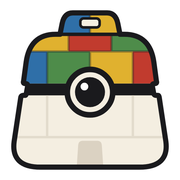
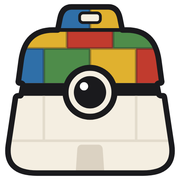
web: 898a01b

Changed region(s): [[0.0278, 0.0, 0.9722, 1.0], [0.4167, 0.7778, 0.5833, 0.8056]]

diff --git a/legal/esborrar-compte.html b/legal/esborrar-compte.html
@@ -5,8 +5,8 @@
 <meta name="viewport" content="width=device-width, initial-scale=1">
 <title>Esborrar el teu compte de Talaiot · Talaiot</title>
 <meta name="theme-color" content="#15131A">
-<link rel="icon" href="https://talaiottcg.com/img/favicon.png?v=2">
-<link rel="apple-touch-icon" href="https://talaiottcg.com/img/apple-touch-icon.png?v=2">
+<link rel="icon" href="https://talaiottcg.com/img/favicon.png?v=3">
+<link rel="apple-touch-icon" href="https://talaiottcg.com/img/apple-touch-icon.png?v=3">
 <link rel="preconnect" href="https://fonts.googleapis.com">
 <link rel="preconnect" href="https://fonts.gstatic.com" crossorigin>
 <link rel="stylesheet" href="https://fonts.googleapis.com/css2?family=Plus+Jakarta+Sans:wght@400;600;700;800&display=swap">

diff --git a/legal/borrar-cuenta.html b/legal/borrar-cuenta.html
@@ -5,8 +5,8 @@
 <meta name="viewport" content="width=device-width, initial-scale=1">
 <title>Borrar tu cuenta de Talaiot · Talaiot</title>
 <meta name="theme-color" content="#15131A">
-<link rel="icon" href="https://talaiottcg.com/img/favicon.png?v=2">
-<link rel="apple-touch-icon" href="https://talaiottcg.com/img/apple-touch-icon.png?v=2">
+<link rel="icon" href="https://talaiottcg.com/img/favicon.png?v=3">
+<link rel="apple-touch-icon" href="https://talaiottcg.com/img/apple-touch-icon.png?v=3">
 <link rel="preconnect" href="https://fonts.googleapis.com">
 <link rel="preconnect" href="https://fonts.gstatic.com" crossorigin>
 <link rel="stylesheet" href="https://fonts.googleapis.com/css2?family=Plus+Jakarta+Sans:wght@400;600;700;800&display=swap">

diff --git a/legal/delete-account.html b/legal/delete-account.html
@@ -5,8 +5,8 @@
 <meta name="viewport" content="width=device-width, initial-scale=1">
 <title>Delete your Talaiot account · Talaiot</title>
 <meta name="theme-color" content="#15131A">
-<link rel="icon" href="https://talaiottcg.com/img/favicon.png?v=2">
-<link rel="apple-touch-icon" href="https://talaiottcg.com/img/apple-touch-icon.png?v=2">
+<link rel="icon" href="https://talaiottcg.com/img/favicon.png?v=3">
+<link rel="apple-touch-icon" href="https://talaiottcg.com/img/apple-touch-icon.png?v=3">
 <link rel="preconnect" href="https://fonts.googleapis.com">
 <link rel="preconnect" href="https://fonts.gstatic.com" crossorigin>
 <link rel="stylesheet" href="https://fonts.googleapis.com/css2?family=Plus+Jakarta+Sans:wght@400;600;700;800&display=swap">

diff --git a/legal/privacidad.html b/legal/privacidad.html
@@ -5,8 +5,8 @@
 <meta name="viewport" content="width=device-width, initial-scale=1">
 <title>Política de privacidad · Talaiot</title>
 <meta name="theme-color" content="#15131A">
-<link rel="icon" href="https://talaiottcg.com/img/favicon.png?v=2">
-<link rel="apple-touch-icon" href="https://talaiottcg.com/img/apple-touch-icon.png?v=2">
+<link rel="icon" href="https://talaiottcg.com/img/favicon.png?v=3">
+<link rel="apple-touch-icon" href="https://talaiottcg.com/img/apple-touch-icon.png?v=3">
 <link rel="preconnect" href="https://fonts.googleapis.com">
 <link rel="preconnect" href="https://fonts.gstatic.com" crossorigin>
 <link rel="stylesheet" href="https://fonts.googleapis.com/css2?family=Plus+Jakarta+Sans:wght@400;600;700;800&display=swap">

diff --git a/legal/privacitat.html b/legal/privacitat.html
@@ -5,8 +5,8 @@
 <meta name="viewport" content="width=device-width, initial-scale=1">
 <title>Política de privacitat · Talaiot</title>
 <meta name="theme-color" content="#15131A">
-<link rel="icon" href="https://talaiottcg.com/img/favicon.png?v=2">
-<link rel="apple-touch-icon" href="https://talaiottcg.com/img/apple-touch-icon.png?v=2">
+<link rel="icon" href="https://talaiottcg.com/img/favicon.png?v=3">
+<link rel="apple-touch-icon" href="https://talaiottcg.com/img/apple-touch-icon.png?v=3">
 <link rel="preconnect" href="https://fonts.googleapis.com">
 <link rel="preconnect" href="https://fonts.gstatic.com" crossorigin>
 <link rel="stylesheet" href="https://fonts.googleapis.com/css2?family=Plus+Jakarta+Sans:wght@400;600;700;800&display=swap">

diff --git a/legal/index.html b/legal/index.html
@@ -5,8 +5,8 @@
 <meta name="viewport" content="width=device-width, initial-scale=1">
 <title>Talaiot — Legal · Talaiot</title>
 <meta name="theme-color" content="#15131A">
-<link rel="icon" href="https://talaiottcg.com/img/favicon.png?v=2">
-<link rel="apple-touch-icon" href="https://talaiottcg.com/img/apple-touch-icon.png?v=2">
+<link rel="icon" href="https://talaiottcg.com/img/favicon.png?v=3">
+<link rel="apple-touch-icon" href="https://talaiottcg.com/img/apple-touch-icon.png?v=3">
 <link rel="preconnect" href="https://fonts.googleapis.com">
 <link rel="preconnect" href="https://fonts.gstatic.com" crossorigin>
 <link rel="stylesheet" href="https://fonts.googleapis.com/css2?family=Plus+Jakarta+Sans:wght@400;600;700;800&display=swap">

diff --git a/legal/terminos.html b/legal/terminos.html
@@ -5,8 +5,8 @@
 <meta name="viewport" content="width=device-width, initial-scale=1">
 <title>Términos de uso · Talaiot</title>
 <meta name="theme-color" content="#15131A">
-<link rel="icon" href="https://talaiottcg.com/img/favicon.png?v=2">
-<link rel="apple-touch-icon" href="https://talaiottcg.com/img/apple-touch-icon.png?v=2">
+<link rel="icon" href="https://talaiottcg.com/img/favicon.png?v=3">
+<link rel="apple-touch-icon" href="https://talaiottcg.com/img/apple-touch-icon.png?v=3">
 <link rel="preconnect" href="https://fonts.googleapis.com">
 <link rel="preconnect" href="https://fonts.gstatic.com" crossorigin>
 <link rel="stylesheet" href="https://fonts.googleapis.com/css2?family=Plus+Jakarta+Sans:wght@400;600;700;800&display=swap">

diff --git a/legal/privacy.html b/legal/privacy.html
@@ -5,8 +5,8 @@
 <meta name="viewport" content="width=device-width, initial-scale=1">
 <title>Privacy Policy · Talaiot</title>
 <meta name="theme-color" content="#15131A">
-<link rel="icon" href="https://talaiottcg.com/img/favicon.png?v=2">
-<link rel="apple-touch-icon" href="https://talaiottcg.com/img/apple-touch-icon.png?v=2">
+<link rel="icon" href="https://talaiottcg.com/img/favicon.png?v=3">
+<link rel="apple-touch-icon" href="https://talaiottcg.com/img/apple-touch-icon.png?v=3">
 <link rel="preconnect" href="https://fonts.googleapis.com">
 <link rel="preconnect" href="https://fonts.gstatic.com" crossorigin>
 <link rel="stylesheet" href="https://fonts.googleapis.com/css2?family=Plus+Jakarta+Sans:wght@400;600;700;800&display=swap">

diff --git a/legal/termes.html b/legal/termes.html
@@ -5,8 +5,8 @@
 <meta name="viewport" content="width=device-width, initial-scale=1">
 <title>Termes d'ús · Talaiot</title>
 <meta name="theme-color" content="#15131A">
-<link rel="icon" href="https://talaiottcg.com/img/favicon.png?v=2">
-<link rel="apple-touch-icon" href="https://talaiottcg.com/img/apple-touch-icon.png?v=2">
+<link rel="icon" href="https://talaiottcg.com/img/favicon.png?v=3">
+<link rel="apple-touch-icon" href="https://talaiottcg.com/img/apple-touch-icon.png?v=3">
 <link rel="preconnect" href="https://fonts.googleapis.com">
 <link rel="preconnect" href="https://fonts.gstatic.com" crossorigin>
 <link rel="stylesheet" href="https://fonts.googleapis.com/css2?family=Plus+Jakarta+Sans:wght@400;600;700;800&display=swap">

diff --git a/legal/terms.html b/legal/terms.html
@@ -5,8 +5,8 @@
 <meta name="viewport" content="width=device-width, initial-scale=1">
 <title>Terms of Use · Talaiot</title>
 <meta name="theme-color" content="#15131A">
-<link rel="icon" href="https://talaiottcg.com/img/favicon.png?v=2">
-<link rel="apple-touch-icon" href="https://talaiottcg.com/img/apple-touch-icon.png?v=2">
+<link rel="icon" href="https://talaiottcg.com/img/favicon.png?v=3">
+<link rel="apple-touch-icon" href="https://talaiottcg.com/img/apple-touch-icon.png?v=3">
 <link rel="preconnect" href="https://fonts.googleapis.com">
 <link rel="preconnect" href="https://fonts.gstatic.com" crossorigin>
 <link rel="stylesheet" href="https://fonts.googleapis.com/css2?family=Plus+Jakarta+Sans:wght@400;600;700;800&display=swap">

diff --git a/index.html b/index.html
@@ -10,8 +10,8 @@
 <meta property="og:image" content="https://talaiottcg.com/img/icono-512.png">
 <meta property="og:url" content="https://talaiottcg.com/">
 <meta name="theme-color" content="#15131A">
-<link rel="icon" href="img/favicon.png?v=2">
-<link rel="apple-touch-icon" href="img/apple-touch-icon.png?v=2">
+<link rel="icon" href="img/favicon.png?v=3">
+<link rel="apple-touch-icon" href="img/apple-touch-icon.png?v=3">
 <link rel="preconnect" href="https://fonts.googleapis.com">
 <link rel="preconnect" href="https://fonts.gstatic.com" crossorigin>
 <link rel="stylesheet" href="https://fonts.googleapis.com/css2?family=Plus+Jakarta+Sans:wght@400;500;600;700;800&family=Space+Grotesk:wght@500;700&display=swap">
